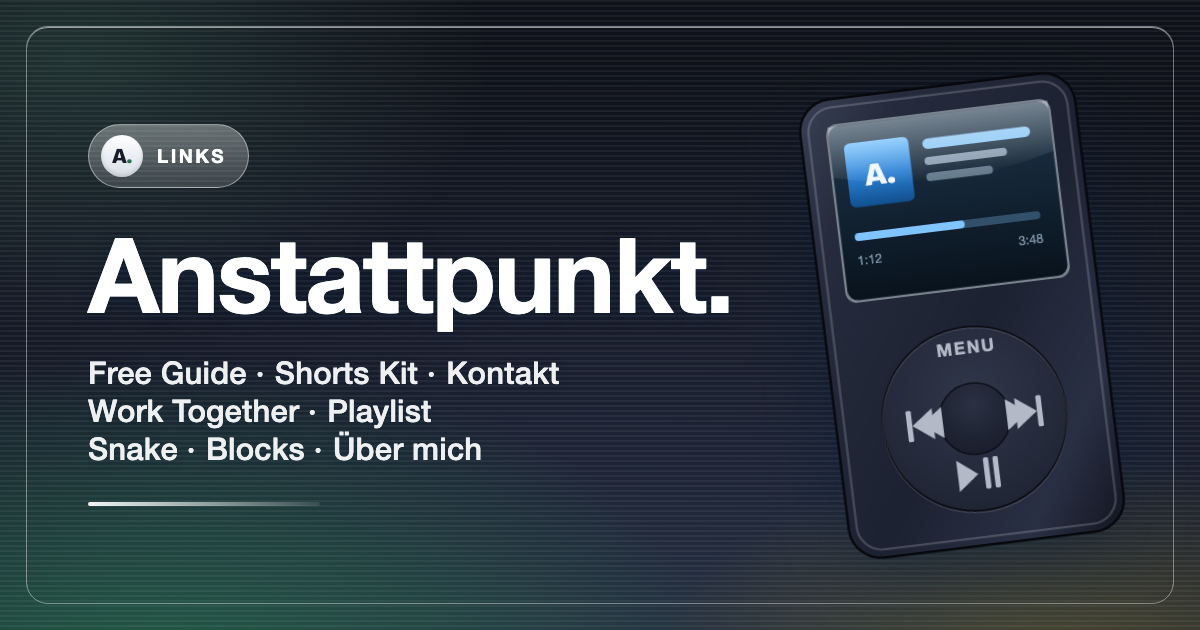
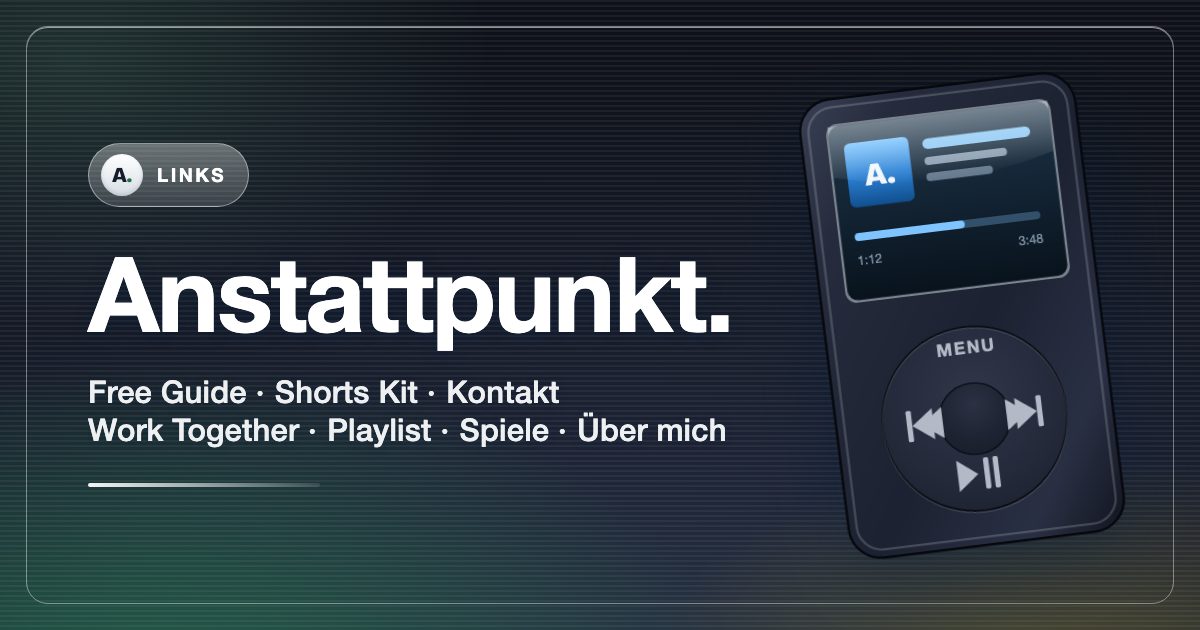
Spiele-Untermenü: Snake und Blocks unter "Spiele" / "Games"
Neuer Menütyp "menu" (Einträge in items, gefiltert wie das Hauptmenü), Gamepad-Icon "games";
Social-Bild neu erzeugt.

Changed region(s): [[0.0617, 0.3619, 0.6167, 0.8143], [0.0617, 0.181, 0.2158, 0.3317]]

diff --git a/src/ipod/index.js b/src/ipod/index.js
@@ -22,7 +22,7 @@ const SLIDE_MS = 260;
 // never also the first link on the screen it opened (going back is not guarded)
 const SETTLE_MS = 450;
 const EASE = 'cubic-bezier(.32,.08,.24,1)';
-const SCREEN_TYPES = ['list', 'page', 'nowplaying', 'downloads', 'game'];
+const SCREEN_TYPES = ['list', 'page', 'nowplaying', 'downloads', 'game', 'menu'];
 let seq = 0;
 
 // UI strings (not content), per language: the 6G firmware wording in German and English.
@@ -100,11 +100,13 @@ export function mountIpod(container, { config, lang = 'de' } = {}) {
   config ??= {};
   const brand = config.brand ?? {};
   // entries without a name or with an unknown type would be blank or broken rows: skip them, with a hint
-  const menu = (Array.isArray(config.menu) ? config.menu : []).filter((m) => {
+  // (the main menu's, and those of a submenu, type "menu")
+  const entries = (list) => (Array.isArray(list) ? list : []).filter((m) => {
     const ok = m && typeof m === 'object' && firstText(m.label, m.title) && SCREEN_TYPES.includes(m.type);
-    if (!ok) console.warn('[ipod] config.json: menu entry skipped (needs label or title and type list | page | nowplaying | downloads | game):', m);
+    if (!ok) console.warn(`[ipod] config.json: menu entry skipped (needs label or title and type ${SCREEN_TYPES.join(' | ')}):`, m);
     return ok;
   });
+  const menu = entries(config.menu);
   const L = uiText(UI, lang);
   const P = `ipodc${++seq}`;
   let uid = 0;
@@ -381,7 +383,7 @@ export function mountIpod(container, { config, lang = 'de' } = {}) {
   }
 
   const { menuScreen, buildScreen } = createScreens({
-    L, brand, menu, P, nid, timers, player, isReduced, isCurrent, pxPer, syncAD, announce, showToast, followLink, open,
+    L, brand, menu, entries, P, nid, timers, player, isReduced, isCurrent, pxPer, syncAD, announce, showToast, followLink, open,
   });
 
   const focusRoot = () => { const t = keyTarget(); if (document.activeElement !== t) t.focus({ preventScroll: true }); };

diff --git a/src/ipod/art.js b/src/ipod/art.js
@@ -41,6 +41,8 @@ const ICON = {
   box: '<path d="M50 26.5 72 37v26L50 73.5 28 63V37z"/><path d="M50 26.5 72 37 50 47.5 28 37z" fill="#fff" fill-opacity=".35"/><path d="M50 47.5v26" fill="none"/>',
   // a film clapperboard, its arm open
   film: '<path d="M29 47h42v21a4 4 0 0 1-4 4H33a4 4 0 0 1-4-4z"/><path d="m28.2 44.6-1.7-7.2 40.9-9.6 1.7 7.2z"/><path d="m33.5 35.8 6.6 5 6.2-1.5-6.6-5zm14.2-3.3 6.6 5 6.2-1.5-6.6-5z" fill="#fff" fill-opacity=".8" stroke="none"/>',
+  // the games submenu: a game pad with its cross and two buttons
+  games: '<g transform="translate(50 50) scale(.86) translate(-50 -52)"><path d="M35 36h30c9 0 15 6 17 15l3 12c1 6-5 10-10 6l-8-7H33l-8 7c-5 4-11 0-10-6l3-12c2-9 8-15 17-15z"/><path d="M33 45h4v-4h4v4h4v4h-4v4h-4v-4h-4z" fill="#fff" fill-opacity=".85" stroke="none"/><circle cx="63" cy="45" r="3" fill="#fff" fill-opacity=".85" stroke="none"/><circle cx="70" cy="51" r="3" fill="#fff" fill-opacity=".85" stroke="none"/></g>',
   // Blocks: a stack with a gap and the falling piece that fits it
   blocks: '<rect x="27" y="62" width="10" height="10" rx="2"/><rect x="39" y="62" width="10" height="10" rx="2"/><rect x="51" y="62" width="10" height="10" rx="2"/><rect x="63" y="62" width="10" height="10" rx="2"/><rect x="27" y="50" width="10" height="10" rx="2"/><rect x="39" y="50" width="10" height="10" rx="2"/><rect x="63" y="50" width="10" height="10" rx="2"/><g fill-opacity=".6"><rect x="39" y="26" width="10" height="10" rx="2"/><rect x="51" y="26" width="10" height="10" rx="2"/><rect x="63" y="26" width="10" height="10" rx="2"/><rect x="51" y="38" width="10" height="10" rx="2"/></g>',
   // Snake: a snake of five cells heading for a green dot

diff --git a/src/ipod/screens.js b/src/ipod/screens.js
@@ -286,6 +286,11 @@ export function createScreens(ctx) {
         return nowPlayingScreen(item, id);
       case 'game':
         return gameScreen(ctx, id, title, item.game);
+      case 'menu':
+        // a submenu (the games): its entries open like the main menu's
+        return listScreen('submenu', id, title, ctx.entries(item.items).map((sub) => ({
+          label: firstText(sub.label, sub.title), lang: langOf(sub), sub: true, onActivate: () => ctx.open(sub),
+        })));
       default: {
         // the entry's icon fills the free space under a short text, as on the preview pane
         const art = h('div', 'ipodc-page-art', { 'aria-hidden': 'true' });

diff --git a/README.md b/README.md
@@ -85,9 +85,9 @@ Jeder Eintrag hat vier gemeinsame Felder und zwei optionale:
 | ------- | ------ | ---------------------------------------------------------------------- |
 | `id`    | String | Eindeutiger Schlüssel, intern verwendet (klein, ohne Leerzeichen)      |
 | `label` | String | Beschriftung im Menü                                                    |
-| `type`  | String | Bauart der Unterseite: `list`, `page`, `nowplaying`, `downloads` oder `game` |
+| `type`  | String | Bauart der Unterseite: `list`, `page`, `nowplaying`, `downloads`, `game` oder `menu` |
 | `title` | String | Überschrift der Unterseite                                              |
-| `icon`  | String | Optional: das Bild des Eintrags in der Vorschau rechts im Hauptmenü und unter kurzen Texten: `book`, `box`, `film`, `person`, `game`, `blocks`, `contacts`, `chat`, `download` oder `monogram` (das Kürzel). Ohne `icon` wählt der Typ: `contacts` für `list`, `download` für `downloads`, `chat` für eine Seite mit Schaltflächen, sonst `monogram`. `nowplaying` zeigt sein Cover rund im selben Medaillon |
+| `icon`  | String | Optional: das Bild des Eintrags in der Vorschau rechts im Hauptmenü und unter kurzen Texten: `book`, `box`, `film`, `person`, `games`, `game`, `blocks`, `contacts`, `chat`, `download` oder `monogram` (das Kürzel). Ohne `icon` wählt der Typ: `contacts` für `list`, `download` für `downloads`, `chat` für eine Seite mit Schaltflächen, sonst `monogram`. `nowplaying` zeigt sein Cover rund im selben Medaillon |
 | `lang`  | String | Optional: Sprache von `label` und `title`, wenn sie nicht Deutsch ist, z. B. `"en"` für „Work Together“ (Screenreader sprechen sie dann richtig aus). Gilt für beide Felder: nur setzen, wenn `label` und `title` in dieser Sprache sind |
 
 Je nach `type` kommen weitere Felder dazu. Zeilen (`items[]`, `actions[]`) können ebenfalls ein
@@ -133,6 +133,14 @@ Dateinamen; eine Zeile ganz ohne Angaben wird mit einem Hinweis in der Browser-K
 Die Datei am besten in `public/downloads/` ablegen. Eine Datei auf einem anderen Server (z. B.
 einem Cloud-Speicher) öffnet sich in einem neuen Tab, weil Browser dort nicht direkt
 herunterladen.
+
+#### `type: "menu"`: ein Untermenü
+
+| Feld    | Typ   | Bedeutung                                                                 |
+| ------- | ----- | ------------------------------------------------------------------------- |
+| `items` | Array | Einträge wie im Hauptmenü (gleiche Felder und Typen), z. B. die beiden Spiele |
+
+So stehen Snake und Blocks unter „Spiele“ / „Games“ (`icon: "games"`, ein Gamepad).
 
 #### `type: "game"`: Snake oder Blocks
 

diff --git a/ARCHITECTURE.md b/ARCHITECTURE.md
@@ -142,7 +142,7 @@ mountIpod(container, { config, lang }) → {
 ```
 Height is `var(--ipod-h)`, every inner size is `calc(var(--ipod-h) / 103.5 * <mm>)` from `IPOD`.
 The LCD UI is a logical 320×240 px space. Files: `wheel.js` (click-wheel input), `screens.js`
-(main menu with preview pane, list, page, Now Playing, downloads), `game.js` (menu type `game`:
+(main menu with preview pane, list, page, Now Playing, downloads, a submenu: type `menu`, its `items` filtered like the main menu's), `game.js` (menu type `game`:
 the frame every game shares, a canvas with start / pause / game over, the record and the option text;
 its `press` / `move` take the D-pad, the centre and the wheel) with `snake.js` and `blocks.js` (the rules
 and drawing of each game, picked by `game` in config.json), `player.js` (simulated
